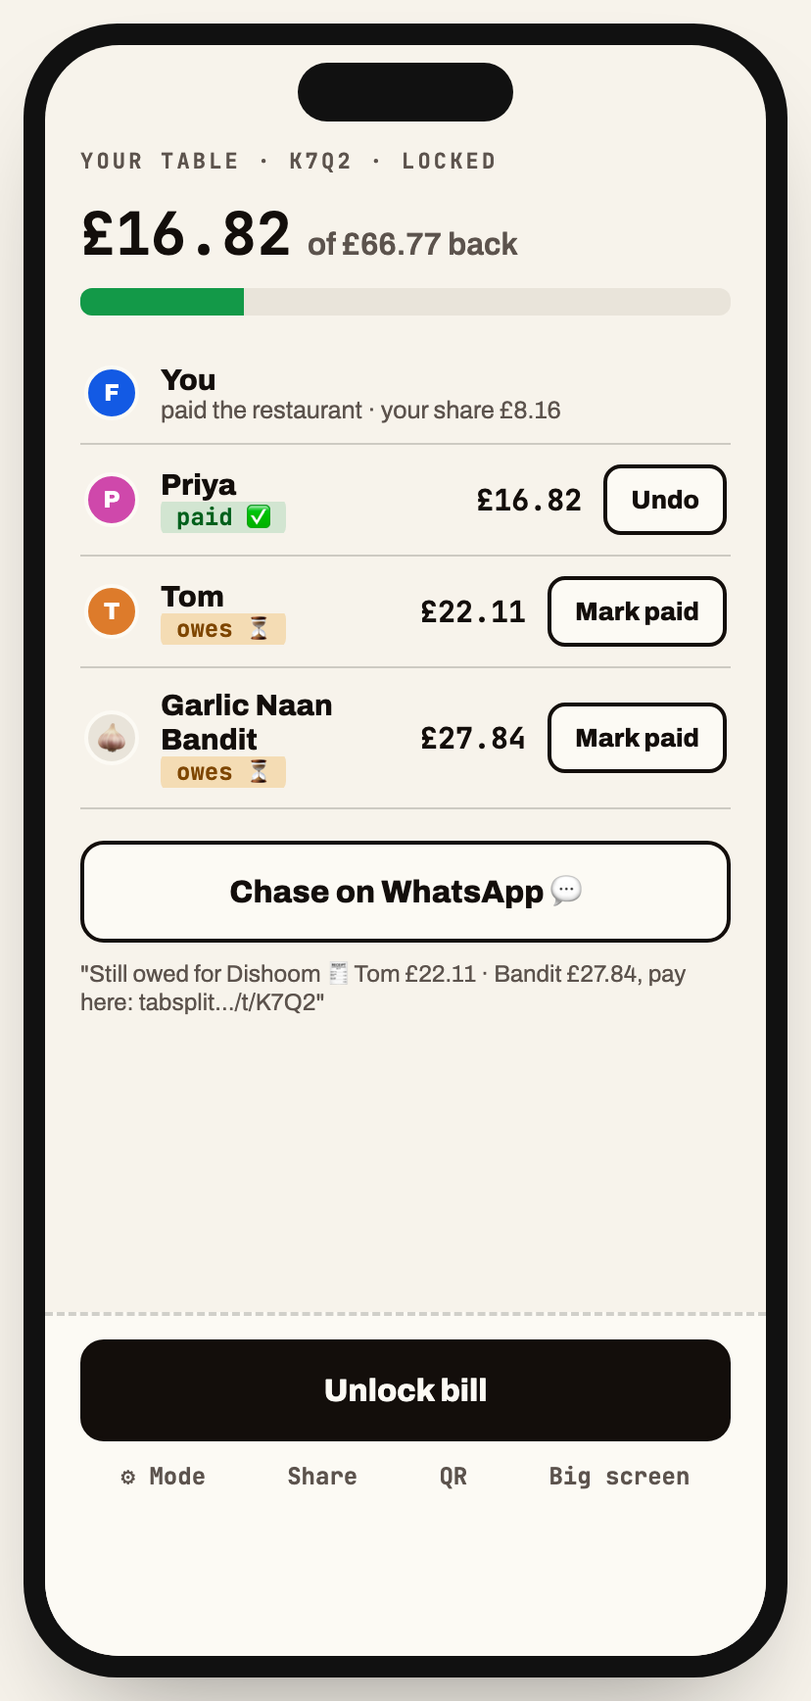
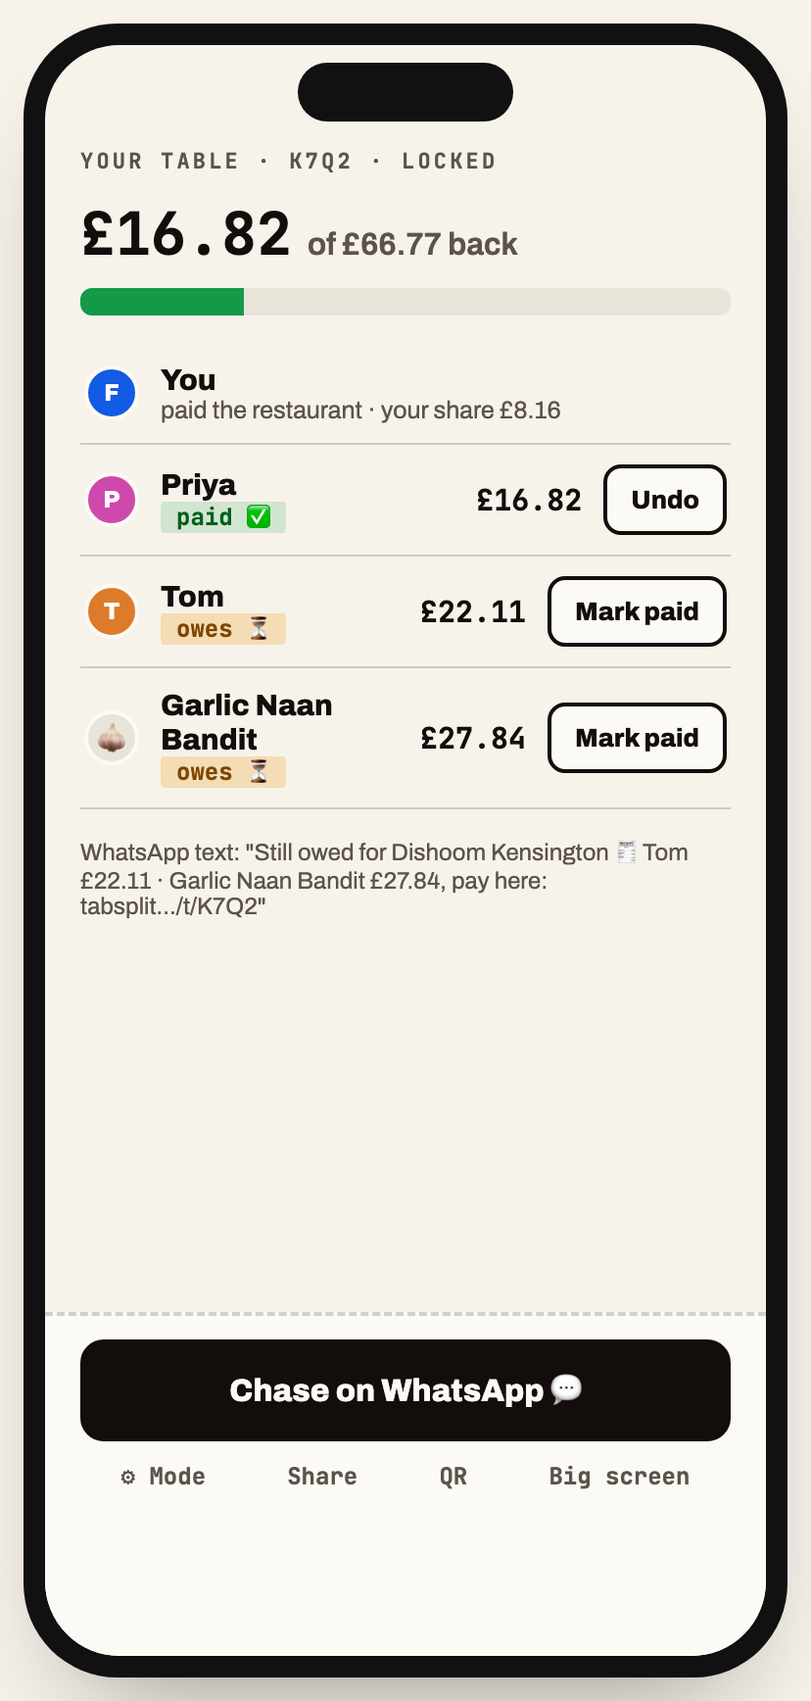
Add TABSPLIT_EXPLAINED.md for teammates; big-screen mockup and P1 attachments
- TABSPLIT_EXPLAINED.md: plain-English tour of the concept, screens, modes,
  weak spots, a phone testing checklist and open questions for the team
- mockups/screen.png: 1280x720 big screen (fits 100vh); Track footer now
  shows Chase on WhatsApp instead of an unspecified Unlock button
- P1 says the attached mockups are layout references and the text wins
- build/put_upload.sh + run sheet for the 18:00 attachment upload

diff --git a/mockups/screen.html b/mockups/screen.html
@@ -1,0 +1,97 @@
+<!doctype html>
+<html lang="en">
+<head>
+<meta charset="utf-8">
+<meta name="viewport" content="width=device-width, initial-scale=1">
+<title>TabSplit Big Screen</title>
+<link rel="preconnect" href="https://fonts.googleapis.com">
+<link rel="preconnect" href="https://fonts.gstatic.com" crossorigin>
+<link href="https://fonts.googleapis.com/css2?family=Archivo:wght@400;600;800&family=Archivo+Black&family=JetBrains+Mono:wght@400;700&display=swap" rel="stylesheet">
+<script src="https://cdnjs.cloudflare.com/ajax/libs/qrcodejs/1.0.0/qrcode.min.js"></script>
+<style>
+  /* /t/:code/screen mockup: projector-first, exactly 100vh, never scrolls (tested at 1280x720) */
+  :root {
+    --bg: oklch(0.965 0.012 85); --paper: oklch(0.985 0.008 85); --ink: oklch(0.17 0.01 60);
+    --muted: oklch(0.45 0.015 60); --line: oklch(0.17 0.01 60 / 18%); --soft: oklch(0.92 0.015 85);
+    --accent: oklch(0.52 0.22 262); --green: oklch(0.6 0.16 150); --red: oklch(0.58 0.22 27);
+    --g1: oklch(0.52 0.22 262); --g2: oklch(0.62 0.2 340); --g3: oklch(0.68 0.15 55);
+    --mono: "JetBrains Mono", ui-monospace, monospace; --display: "Archivo Black", "Archivo", sans-serif;
+  }
+  * { box-sizing: border-box; }
+  html, body { margin: 0; height: 100vh; overflow: hidden; background: var(--bg); color: var(--ink); font-family: "Archivo", sans-serif; }
+  .grid { height: 100vh; display: grid; grid-template-columns: 330px 1fr 300px; grid-template-rows: 1fr auto; gap: 22px; padding: 26px 30px 22px; }
+  .card { background: var(--paper); border: 2px solid var(--line); border-radius: 18px; padding: 20px 22px; min-height: 0; overflow: hidden; }
+  .kicker { font: 700 13px var(--mono); letter-spacing: 2px; color: var(--muted); text-transform: uppercase; }
+  .join { display: flex; flex-direction: column; align-items: center; text-align: center; }
+  #qr { margin: 14px 0 12px; padding: 10px; background: #fff; border-radius: 12px; }
+  .code { font: 400 84px/1 var(--display); letter-spacing: 6px; }
+  .hint { font-size: 14px; color: var(--muted); margin-top: 8px; }
+  .h { font: 400 30px/1.1 var(--display); margin: 4px 0 14px; }
+  .items { display: grid; grid-template-columns: 1fr 1fr; gap: 10px; }
+  .item { display: flex; align-items: center; gap: 10px; padding: 10px 14px; border: 2px solid var(--line); border-radius: 12px; height: 62px; }
+  .item .nm { flex: 1; font: 600 18px "Archivo"; }
+  .item .pr { font: 700 18px var(--mono); }
+  .item.claimed { border-color: oklch(0.6 0.16 150 / 60%); background: oklch(0.6 0.16 150 / 8%); }
+  .item.open { border-color: oklch(0.58 0.22 27 / 60%); background: oklch(0.58 0.22 27 / 12%); animation: pulse 1.6s ease-in-out infinite; }
+  @keyframes pulse { 50% { background: oklch(0.58 0.22 27 / 22%); } }
+  .av { width: 30px; height: 30px; border-radius: 50%; display: inline-flex; align-items: center; justify-content: center; font: 800 13px "Archivo"; color: #fff; border: 2px solid var(--paper); }
+  .av.e { background: var(--soft); font-size: 16px; }
+  .avs { display: flex; } .avs .av + .av { margin-left: -9px; }
+  .person { display: flex; align-items: center; gap: 12px; padding: 11px 0; border-bottom: 1px solid var(--line); }
+  .person b { flex: 1; font-size: 18px; }
+  .person .amt { font: 700 18px var(--mono); }
+  .new { font: 700 11px var(--mono); color: var(--accent); margin-left: 6px; }
+  .bottom { grid-column: 1 / -1; display: flex; align-items: center; gap: 22px; }
+  .bar { flex: 1; height: 22px; border-radius: 12px; background: var(--soft); overflow: hidden; }
+  .bar i { display: block; height: 100%; width: 83.5%; background: var(--green); }
+  .big { font: 700 26px var(--mono); white-space: nowrap; }
+  .pill { font: 700 18px var(--mono); color: var(--red); border: 2px solid var(--red); border-radius: 999px; padding: 8px 18px; white-space: nowrap; animation: pulse 1.6s ease-in-out infinite; }
+</style>
+</head>
+<body>
+<div class="grid">
+  <div class="card join">
+    <div class="kicker">Scan to join the table</div>
+    <div id="qr"></div>
+    <div class="kicker">or type the code</div>
+    <div class="code">K7Q2</div>
+    <div class="hint">No app. No sign-up. Tap what you ate.</div>
+  </div>
+
+  <div class="card">
+    <div class="kicker">Dishoom Kensington · items mode</div>
+    <div class="h">Who had what?</div>
+    <div class="items">
+      <div class="item claimed"><span class="nm">Chicken Ruby</span><span class="avs"><span class="av e">🧄</span></span><span class="pr">£15.90</span></div>
+      <div class="item claimed"><span class="nm">House Black Daal <span style="font:13px var(--mono);color:var(--muted)">÷2</span></span><span class="avs"><span class="av e">🧄</span><span class="av" style="background:var(--g2)">P</span></span><span class="pr">£9.90</span></div>
+      <div class="item claimed"><span class="nm">Lamb Biryani</span><span class="avs"><span class="av" style="background:var(--g3)">T</span></span><span class="pr">£16.90</span></div>
+      <div class="item claimed"><span class="nm">Garlic Naan</span><span class="avs"><span class="av" style="background:var(--g2)">P</span></span><span class="pr">£4.50</span></div>
+      <div class="item claimed"><span class="nm">Garlic Naan</span><span class="avs"><span class="av" style="background:var(--g1)">F</span></span><span class="pr">£4.50</span></div>
+      <div class="item open"><span class="nm">Okra Fries</span><span class="pr">£5.50</span></div>
+      <div class="item open"><span class="nm">Mango Lassi</span><span class="pr">£5.50</span></div>
+      <div class="item claimed"><span class="nm">Masala Chai</span><span class="avs"><span class="av e">🧄</span></span><span class="pr">£3.90</span></div>
+    </div>
+  </div>
+
+  <div class="card">
+    <div class="kicker">At the table · 5</div>
+    <div style="margin-top:8px">
+      <div class="person"><span class="av e">🧄</span><b>Garlic Naan Bandit</b><span class="amt">£27.85</span></div>
+      <div class="person"><span class="av" style="background:var(--g3)">T</span><b>Tom</b><span class="amt">£19.01</span></div>
+      <div class="person"><span class="av" style="background:var(--g2)">P</span><b>Priya</b><span class="amt">£10.63</span></div>
+      <div class="person"><span class="av" style="background:var(--g1)">F</span><b>Faizan <span style="font:600 13px Archivo;color:var(--muted)">host</span></b><span class="amt">£5.06</span></div>
+      <div class="person" style="border-bottom:0"><span class="av e">🥟</span><b>Momo Menace<span class="new">JUST JOINED</span></b><span class="amt" style="color:var(--muted)">£0.00</span></div>
+    </div>
+  </div>
+
+  <div class="bottom">
+    <span class="big">£62.55 <span style="font-weight:400;color:var(--muted)">of £74.93 claimed</span></span>
+    <div class="bar"><i></i></div>
+    <span class="pill">⚠ 2 unclaimed · £11.00</span>
+  </div>
+</div>
+<script>
+  if (window.QRCode) new QRCode(document.getElementById("qr"), { text: "https://tabsplit.lovable.app/t/K7Q2", width: 236, height: 236 });
+</script>
+</body>
+</html>

diff --git a/mockups/mockups.html b/mockups/mockups.html
@@ -200,11 +200,10 @@
             <div class="person"><span class="av" style="background:var(--g3)">T</span><div class="who"><b>Tom</b><small><span class="status owes">owes ⏳</span></small></div><div class="amt">£22.11</div><div class="btn sm">Mark paid</div></div>
             <div class="person"><span class="av e">🧄</span><div class="who"><b>Garlic Naan Bandit</b><small><span class="status owes">owes ⏳</span></small></div><div class="amt">£27.84</div><div class="btn sm">Mark paid</div></div>
           </div>
-          <div class="btn" style="margin-top:16px">Chase on WhatsApp 💬</div>
-          <div class="you" style="margin-top:8px;font-size:12px">"Still owed for Dishoom 🧾 Tom £22.11 · Bandit £27.84, pay here: tabsplit…/t/K7Q2"</div>
+          <div class="you" style="margin-top:14px;font-size:12px">WhatsApp text: "Still owed for Dishoom Kensington 🧾 Tom £22.11 · Garlic Naan Bandit £27.84, pay here: tabsplit…/t/K7Q2"</div>
         </div>
         <div class="foot">
-          <div class="btn ink">Unlock bill</div>
+          <div class="btn ink">Chase on WhatsApp 💬</div>
           <div class="hostbar"><span>⚙ Mode</span><span>Share</span><span>QR</span><span>Big screen</span></div>
         </div>
       </div></div>

diff --git a/TABSPLIT_EXPLAINED.md b/TABSPLIT_EXPLAINED.md
@@ -1,0 +1,207 @@
+# 🧾 TabSplit, explained
+
+**Read this first.** A 5-minute, plain-English tour of what we're building tonight. Nothing here needs any prep.
+The full technical spec is `TABSPLIT_IDEA2.md` if you want the detail, but you don't need it.
+
+![The five main screens](mockups/all-screens.png)
+
+---
+
+## The idea in one sentence
+
+**At a group dinner, TabSplit splits the bill item by item on everyone's phone, and makes sure the person who paid
+gets their money back before anyone leaves.**
+
+Our tagline: ***"Split the bill. Get paid before anyone stands up."***
+
+---
+
+## The problem
+
+You've been here:
+
+1. Six friends at a restaurant. The bill arrives. Everyone goes quiet.
+2. Someone says "let's just split it evenly", and the person who only had a lassi is quietly annoyed.
+3. Or one person puts their card down, says "just send me what you owe", then spends **a week chasing people on
+   WhatsApp** for £23.51.
+
+Splitting the maths is annoying. **Getting paid back is the real pain.**
+
+---
+
+## How it works (the 60-second version)
+
+Picture a real dinner at Dishoom. The bill is **£74.93**. Faizan pays it.
+
+| Step | What happens | Who |
+|---|---|---|
+| 1 | Faizan takes a photo of the receipt. **AI reads it** and turns it into a list of dishes with prices. He checks the list and fixes anything wrong. | Host |
+| 2 | He types in how he wants to be paid back: Monzo username, Revolut tag and/or bank details. Done once. | Host |
+| 3 | He drops a link in the group chat, or everyone types a **4-letter code** like **K7Q2** (like Kahoot). | Host |
+| 4 | Everyone opens it. **No app, no sign-up, not even typing a name.** You get a silly name like *"Garlic Naan Bandit 🧄"* (you can rename it). | Guests |
+| 5 | You **tap what you ate**. Shared the daal? Two people tap it and it splits in half automatically. Service charge is shared fairly too, to the penny. | Guests |
+| 6 | Tap **Continue** to see the whole table: who had what, and a red pill at the top: *"2 unclaimed · £11.00"*. Everyone can see what's left, so nobody can dodge. | Guests |
+| 7 | When everything is claimed, Faizan taps **Lock bill**. The numbers freeze. | Host |
+| 8 | Every phone now says ***"You owe Faizan £27.84"*** with a **Pay on Monzo** button that has the amount already filled in (plus Revolut and bank details). | Guests |
+| 9 | You pay, then tap **"I've paid ✅"**. Faizan watches the ticks come in on his phone. | Both |
+| 10 | Someone hasn't paid? Faizan taps **Chase on WhatsApp**, which writes the reminder for him. When everyone has paid: **Settled ✅** and confetti on every phone. | Host |
+
+**The link is the whole app.** The same link is for joining, claiming, paying, and paying later at home.
+Your phone remembers who you are.
+
+---
+
+## The three ways to split
+
+The host picks one:
+
+1. **Split by items** (the default). Everyone pays for what they ate, as above.
+2. **Split evenly.** Everyone pays the same share of the whole bill, penny-exact (e.g. £74.93 ÷ 3 = £24.98, £24.98, £24.97).
+3. **Spin for it 🎡** (the fun one). Like "card roulette": the whole table goes on a wheel, it spins
+   **on every phone at the same moment**, and **one person pays the whole bill**.
+   - Everyone is on the wheel by default, but there's a big **"Sit this one out"** button, so nobody is forced in.
+   - The result is picked once and saved, so every phone lands on the same person. Nobody can argue "mine said Tom".
+
+---
+
+## The screens
+
+These are the screens in the picture at the top (the amounts are real outputs of our maths code):
+
+| Screen | Who sees it | What it's for |
+|---|---|---|
+| **Pick** | Guests | Tap the dishes you ate. Your running total is at the bottom. |
+| **Table** | Guests | Everyone's items and totals, plus the "unclaimed" pill. |
+| **Pay** | Guests, after the host locks | "You owe Faizan £27.84" + pay buttons + "I've paid". |
+| **Track** | Host, after lock | Who's paid ✅ and who still owes ⏳. Mark cash payments, chase on WhatsApp. |
+| **Wheel** | Everyone | The spin, then "🎉 Tom pays £74.93". |
+| **Big screen** | The projector (for the pitch) | A giant QR code + code so the judges can join, and the table filling up live. |
+
+![The big screen, for the projector](mockups/screen.png)
+
+---
+
+## Small details that matter
+
+- **Someone's phone died?** The host can add "Sam 🪫" by hand. Sam counts in *Split evenly* and *the wheel*.
+  In *split by items*, a friend taps Sam's food as their own and Sam pays them back.
+- **Joined late, on a new phone?** After the bill is locked you get "Who are you?", which only lists people who
+  haven't paid yet (so you can't take someone else's place), plus "Just watching 👀".
+- **Money is never guessed.** Everything is in whole pennies, and the shares always add up exactly to the
+  receipt total.
+- **Bank details only appear after the host locks the bill**, and only the payment methods the host filled in are shown.
+- **Tables delete themselves**: 7 days after everyone's paid, or 30 days if they never settle.
+
+---
+
+## How do we know someone actually paid?
+
+Honestly: **we don't, yet.** The guest taps "I've paid", and the host is the referee (they can undo a tick, or mark
+someone as paid in cash). We can't see anyone's bank account. Automatic confirmation through Open Banking is the
+"next step" in the pitch.
+
+---
+
+## Why would anyone use this instead of Splitwise?
+
+Splitwise launched receipt splitting in the UK two weeks ago (14 Oct 2026), so the problem is clearly real.
+Our angle:
+
+- **Splitwise ends with an IOU** on a running balance you sort out later. **TabSplit ends with the host paid**,
+  at the table, tonight.
+- **No app for anyone.** Not even the host.
+- **UK bank buttons with the amount filled in**, and a live "who's paid" view.
+- **The wheel.** Nobody else has it, and it's the bit people will film and share.
+
+**How it could make money (the honest version):** today guests pay the host. Later, guests could pay the
+**restaurant directly by bank** from the same screen, which is cheaper for the restaurant than card fees, and we'd
+take a cut of the saving. That needs a licensed payment partner, so it's a "where this goes" story, not something
+we build tonight.
+
+---
+
+## What we are building tonight (18:00–22:00)
+
+In this order. Each step is a complete, working app on its own, so if we run out of time we still have something
+to show:
+
+1. **The core:** create a table, join by link/code/QR, tap your items, live updates on every phone, lock, pay
+   buttons, "I've paid", host tracking, Settled. **Must have.**
+2. **Receipt photos:** AI reads the receipt (up to 4 photos for a long one). If it's not working by 19:35 we skip
+   it and use "type it in" / a demo receipt.
+3. **The modes:** split evenly, the wheel, adding a person without a phone.
+4. **Polish:** confetti, the WhatsApp chase button, a "simulate a table" button for the demo.
+
+🔒 **Feature freeze at 20:45.** After that we only test and rehearse.
+
+**Not building tonight:** accounts or logins, real payment processing, running balances between friends, other
+currencies, a phone app (it's a website), push notifications.
+
+---
+
+## The 2-minute pitch (draft)
+
+1. **Hook:** "Hands up if you've been at a group dinner where the bill arrived and everyone went quiet."
+2. **Join + claim:** hold up a real receipt, AI reads it, and **the judges scan the big screen** and tap what they
+   "ate". Their silly names pop up live.
+3. **The money:** point at the red pill ("who had the garlic naan? 👀"), lock, a phone shows "You owe Faizan £X"
+   with the Monzo button, a teammate pays, a ✅ appears.
+4. **The wheel (maybe):** switch to Spin for it, every phone in the room spins at once, one person "pays".
+5. **Close:** "Splitwise ends with an IOU. TabSplit ends with the host paid before the waiter's back."
+
+We decide the ending (wheel or confetti) at 21:15, once we've seen it all working.
+
+---
+
+## Honest weak spots (please poke at these)
+
+- **The 4-character code can be guessed.** Someone who guesses a live code could see that table, including the
+  host's bank details through the API. Fine for a hackathon; the real fix is longer private links and pay-by-bank
+  links instead of raw bank details.
+- **"I've paid" is the honour system.**
+- **Splitwise got there first** with receipt splitting.
+- **The business model is a bet**, not proven.
+- **The AI can misread a receipt.** The host always checks the list first, and the app compares it to the printed total.
+
+---
+
+## How you can help tonight
+
+Only one person can type prompts into Lovable (it's one shared team account), so **your job is to test, break
+things, and give ideas.** That's genuinely the most useful thing.
+
+### 🧪 Testing (when Faizan says a version is ready)
+Bring a **charged phone**. Ideally we have both **iPhone and Android**, and someone with **Monzo** and someone with
+**Revolut**.
+
+- [ ] Join by **scanning the QR**, by **typing the code**, and by **opening the link** from WhatsApp.
+- [ ] Tap items, untap them, share one item with someone else. Do the totals look right?
+- [ ] Do other people's taps show up on your phone within a second or two?
+- [ ] Rename yourself. Try an emoji, a very long name, an empty name.
+- [ ] Is anything covered by the "Edit with Lovable" badge at the bottom of the screen?
+- [ ] After the host locks: does **Pay on Monzo** open Monzo with the right amount? What happens on a phone
+      **without** Monzo? What does the Revolut button do?
+- [ ] Turn Wi-Fi off and use 4G. Lock your phone for a minute and come back. Does it catch up?
+- [ ] **Try to break it:** two people tap the same thing at the same time, tap like mad, tap right as the host
+      locks, open the link on two phones at once.
+- [ ] Write down anything confusing, ugly or broken (a screenshot is perfect) and send it to Faizan.
+
+### 💡 Ideas we want your opinion on
+1. Would **you** actually use this at a real dinner? What would stop you?
+2. Is **the wheel** fun, or awkward/risky (does it feel like gambling)?
+3. Is **"TabSplit"** a good name? Better ideas?
+4. What's the one thing a judge will ask that we can't answer?
+5. Which ending is better for the pitch: **the wheel** or **everyone-paid confetti**?
+6. Anything missing that every real dinner needs (e.g. someone paying cash, a discount, tips)?
+
+---
+
+## Words you might hear tonight
+
+- **Host:** the person who paid the restaurant and is owed money.
+- **Guest:** everyone else at the table.
+- **Claim:** tapping a dish to say "I had this".
+- **Lock:** the host freezing the bill so the amounts stop changing and people can pay.
+- **Settled:** everyone has paid the host. 🎉
+- **Lovable:** the AI website builder we're using. We describe what we want and it writes the code.
+- **Argon:** the second AI (Gemini) we use to criticise our plans and find bugs.

diff --git a/build/README.md b/build/README.md
@@ -1,22 +1,42 @@
 # Build kit: fresh Lovable project at 18:00
 
-Generated from `TABSPLIT_IDEA2.md` by `python3 build/make_build_kit.py`. **Edit the spec, then re-run; never
-hand-edit the generated files.** The morning project "Tabsplit Test" was a personal test on the old v2 spec:
-don't reuse it, but its look (fonts + oklch colours) is pinned into P1 so the new build matches it.
+Everything for the event lives in `~/Documents/Hackathons/lovable-tabsplit` (this repo, branch
+`claude/focused-clarke-9f3jmy`). Generated from `TABSPLIT_IDEA2.md` by `python3 build/make_build_kit.py`.
+**Edit the spec, then re-run; never hand-edit the generated files.** The morning "Tabsplit Test" project was
+a personal test on the old v2 spec: don't reuse it. Its look (fonts + oklch colours) is pinned into P1.
 
-| Time | Step | File | Tool | Credits |
+**The only thing we're waiting on is hackathon credits.** Lovable workspace "Faizan's Lovable"
+(G2UYdY6xk0J81iaqt0FU) is on the free plan until they land.
+
+## 18:00 run sheet (Claude drives everything from this session via the Lovable MCP)
+
+| Time | Step | File | How | Credits |
 |---|---|---|---|---|
-| 18:00 | P1 UI shell (optionally attach `mockups/*.png` as design references) | `01_P1_create_project.txt` | `create_project` (workspace G2UYdY6xk0J81iaqt0FU) | ~5 |
-| 18:00 | Project knowledge | `00_project_knowledge.txt` | `set_project_knowledge` | free |
+| 18:00 | Upload the 6 P1 attachments | `mockups/{pick,table,pay,track,wheel,screen}.png` | `get_file_upload_url` ×6 → `build/put_upload.sh <png> '<url>' '<user_id>'` | free |
+| 18:01 | **P1** UI shell + attachments | `01_P1_create_project.txt` | `create_project` (workspace above, `files` = the 6 file_ids) → `render_project_widget` | ~5 |
+| 18:01 | Project knowledge | `00_project_knowledge.txt` | `set_project_knowledge` | free |
 | ~18:10 | DB on, schema, seed, verify select | `02_schema.sql`, `03_seed.sql` | `enable_database` + `query_database` | free |
-| 18:15 | P2 data + realtime + lock/pay | `04_P2_data_realtime.txt` | `send_message` | ~5 |
-| 19:00 | P3 receipt photos, then score with `assets/receipts/EXPECTED.md` | `05_P3_receipt_photos.txt` | `send_message` | ~4 |
-| 19:35 | P4 modes + wheel + no-phone person | `06_P4_modes.txt` | `send_message` | ~5 |
-| 20:10 | P5 polish + demo safety, publish | `07_P5_polish.txt` | `send_message`, `deploy_project` | ~3 |
+| ~18:12 | Check P1: `get_diff`, `split.ts` byte-identical, screenshot | | `read_file`, `get_project` | free |
+| 18:15 | **P2** data + realtime + lock/pay | `04_P2_data_realtime.txt` | `send_message` | ~5 |
+| 19:00 | **P3** receipt photos, then score the reader with `assets/receipts/EXPECTED.md` | `05_P3_receipt_photos.txt` | `send_message` | ~4 |
+| 19:35 | **P4** modes + wheel + no-phone person (re-attach `mockups/wheel.png`) | `06_P4_modes.txt` | `send_message` | ~5 |
+| 20:10 | **P5** polish + demo safety, publish | `07_P5_polish.txt` | `send_message`, `deploy_project` | ~3 |
+| 20:30 | 🔍 Argon red-team of the live app | | `agy -p … --model gemini-4-argon-high` | 0 |
+| **20:45** | **🔒 Feature freeze** | | | |
 
-After every prompt: `get_diff` and check `src/lib/split.ts` is still byte-identical to `build/split.ts`.
-Escape hatch (§0): if P3 isn't working by 19:35, keep "Use demo receipt" + "Type it in" and go to P4.
+- Upload URLs expire after 1 hour and files land in "ephemeral" storage, so upload right before the prompt
+  (trial PUT verified at 16:33: HTTP 200).
+- After every prompt: `get_diff`, and check `src/lib/split.ts` is still identical to `build/split.ts`.
+- If Lovable pauses (`awaiting_input`), show Faizan the tool + params, then `respond_to_approval`. Never answer a
+  pause with `send_message`.
+- Escape hatch (§0): if P3 isn't working by 19:35, keep "Use demo receipt" + "Type it in" and go to P4.
+- Never argue with a broken layout: roll back (free) and reword.
 
-**Receipt test set** (`assets/receipts/`): `lucky-dragon` (long; also cut into `-part1`/`-part2` with 5 overlapping
-lines), `nonna-rosa` (service + discount), `crown-anchor` ("2 x … @" lines, no service). Backup stage receipt:
-`assets/demo-receipt.png` (= the DEMO seed, £74.93).
+## Assets
+- **Receipt test set** (`assets/receipts/`, Gemini 4 Argon): `lucky-dragon` (long; also `-part1`/`-part2` with 5
+  overlapping lines), `nonna-rosa` (service + discount), `crown-anchor` ("2 x … @" lines, no service).
+  Expected reader output: `EXPECTED.md`.
+- **Backup stage receipt:** `assets/demo-receipt.png` (= the DEMO seed, £74.93).
+- **Mockups:** `mockups/all-screens.png` (team overview), one PNG per screen for attachments, `screen.png` = the
+  1280×720 big screen. Amounts are computed with `split.ts`.
+- **Reviews:** `reviews/` (Argon's raw output; decisions are recorded in the spec).

diff --git a/TABSPLIT_IDEA2.md b/TABSPLIT_IDEA2.md
@@ -328,7 +328,7 @@ $$;
 >   - Settled: ✅ + confetti.
 >   - The host sees a permanent **Lock bill** button in the footer and a ⚙ menu (mode, add person, reset, share/QR, big screen).
 > - `/t/:code/screen`: a projector view that fits 100vh, with a big QR of the table link, the code in huge type, items with claimer chips (unclaimed pulse red), people + totals, and a progress bar.
-> Guests get a random funny food alias + emoji with inline rename, and no name gate. Design: [Prompt 0 design line]. Don't write tests or run browser checks.
+> Guests get a random funny food alias + emoji with inline rename, and no name gate. Design: [Prompt 0 design line]. The attached images are layout references for Pick, Table, Pay, Track, the wheel and the big screen (1280×720); where an image and this text differ, this text wins. Don't write tests or run browser checks.
 
 ### (free) Claude: `enable_database` → §6 SQL → seed `DEMO` → verify with a `select`.
 
